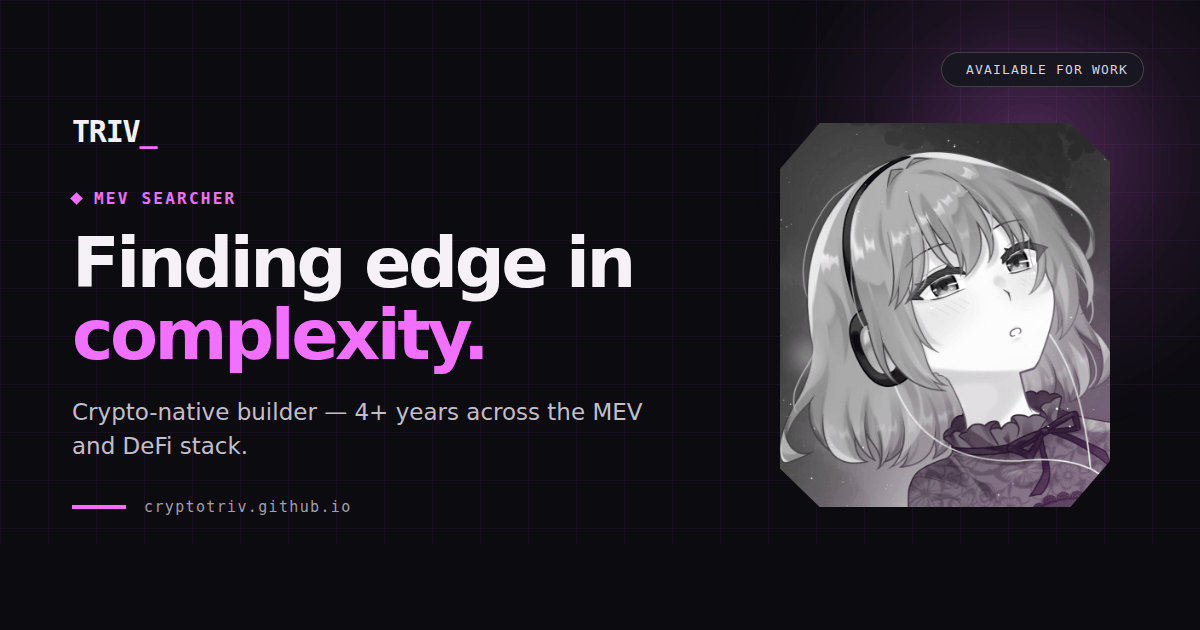
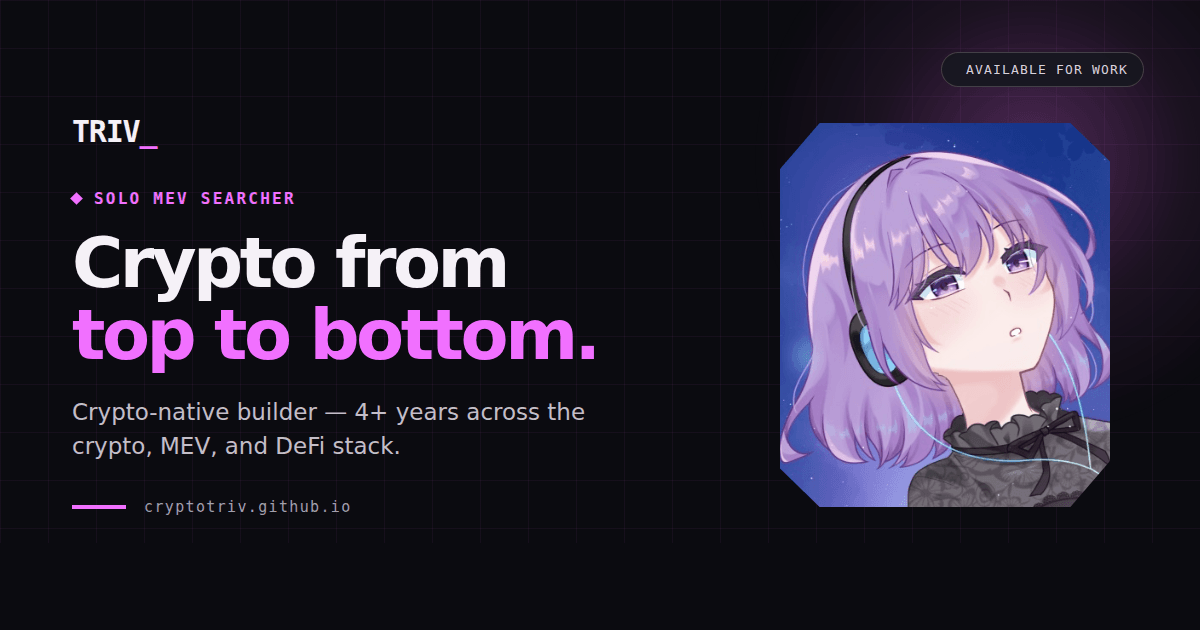
feat: refresh portfolio copy and expand selected work
- Hero: "Solo MEV searcher" eyebrow, "Crypto from top to bottom." headline,
  updated intro, full-colour portrait
- About: new heading and background copy, GitHub and YouTube links
- Selected work: real MEV dashboard screenshot, new YouTube and
  Messages On Ethereum cards, optimised via astro:assets
- Ticker: data-driven groups wide enough that the loop seam never shows
- Social card and JSON-LD updated to match

diff --git a/src/styles/global.css b/src/styles/global.css
@@ -6,13 +6,14 @@
 .skip-link { position:fixed; z-index:20; top:-4rem; left:1rem; padding:.7rem 1rem; background:var(--hot); color:var(--ink); font-weight:800; transition:top .15s; } .skip-link:focus { top:1rem; }
 .site-header { height:88px; display:flex; align-items:center; justify-content:space-between; border-bottom:1px solid var(--line); } .wordmark { font-family:var(--mono); letter-spacing:-.1em; font-size:1.38rem; font-weight:900; } .wordmark span { color:var(--hot); } .site-header nav { display:flex; gap:clamp(1rem,3vw,2.25rem); font-size:.82rem; color:var(--muted); } .site-header nav a,.site-footer a { transition:color .2s ease; } .site-header nav a:hover,.site-footer a:hover { color:var(--hot); } .header-availability { display:flex; align-items:center; gap:.5rem; border:1px solid var(--line); padding:.45rem .7rem; border-radius:999px; color:#d8d3dd; font-family:var(--mono); font-size:.66rem; letter-spacing:.06em; text-transform:uppercase; } .header-availability i,.signal-pulse i,.code-status i { width:.45rem; height:.45rem; display:inline-block; border-radius:50%; background:var(--hot); box-shadow:0 0 12px var(--hot); }
 .hero { min-height:min(760px,calc(100vh - 88px)); display:grid; grid-template-columns:1.05fr .95fr; align-items:center; gap:3rem; padding-block:5.5rem; overflow:hidden; } .eyebrow { margin:0 0 1.35rem; color:var(--hot); font-family:var(--mono); font-size:.68rem; font-weight:700; letter-spacing:.12em; text-transform:uppercase; } .eyebrow span { display:inline-block; width:.48rem; height:.48rem; margin-right:.6rem; background:var(--hot); transform:rotate(45deg); } h1,h2,h3,p { margin-top:0; } h1,h2 { letter-spacing:-.07em; line-height:.93; font-weight:750; text-wrap:balance; } h1 { max-width:720px; margin-bottom:2rem; font-size:clamp(3.4rem,6.5vw,5rem); } h1 em,h2 em { color:var(--hot); font-style:normal; } .hero-intro { max-width:530px; color:#c3bdc8; font-size:clamp(1rem,1.35vw,1.15rem); line-height:1.65; } .hero-actions { display:flex; align-items:center; flex-wrap:wrap; gap:1.7rem; margin-top:2.5rem; } .button { display:inline-flex; align-items:center; gap:2rem; padding:.9rem 1.1rem 1rem 1.25rem; font-size:.8rem; font-weight:800; letter-spacing:.02em; transition:transform .2s,background .2s; } .button:hover { transform:translateY(-3px); } .button-primary { background:var(--hot); color:var(--ink); } .button-primary span { font-size:1.2rem; line-height:.8; } .text-link { display:inline-flex; gap:.55rem; align-items:center; border-bottom:1px solid rgba(241,112,255,.5); padding-bottom:.22rem; color:var(--paper); font-size:.8rem; font-weight:700; transition:color .2s,border-color .2s; } .text-link:hover { border-color:var(--hot); color:var(--hot); } .text-link span { color:var(--hot); font-size:1rem; line-height:.8; }
-.hero-visual { position:relative; min-height:480px; display:grid; place-items:center; isolation:isolate; } .hero-visual::before { content:""; position:absolute; z-index:-2; width:min(30vw,420px); aspect-ratio:1; border-radius:50%; background:radial-gradient(circle,rgba(241,112,255,.34) 0%,rgba(241,112,255,.09) 38%,transparent 70%); filter:blur(10px); } .portrait-frame { position:relative; width:min(29vw,360px); min-width:275px; aspect-ratio:.86; overflow:hidden; clip-path:polygon(12% 0,88% 0,100% 10%,100% 88%,88% 100%,12% 100%,0 90%,0 12%); background:var(--surface); box-shadow:16px 16px 0 rgba(241,112,255,.16); } .portrait-frame::after { content:""; position:absolute; inset:0; background:linear-gradient(140deg,transparent 48%,rgba(241,112,255,.32)),linear-gradient(0deg,rgba(11,11,16,.3),transparent 40%); mix-blend-mode:screen; } .portrait-frame img { display:block; height:100%; width:100%; object-fit:cover; object-position:center 32%; filter:grayscale(100%) contrast(1.12); } .portrait-glow { position:absolute; inset:0; background:radial-gradient(circle at 66% 28%,rgba(241,112,255,.75),transparent 7%); mix-blend-mode:color; } .visual-orbit { position:absolute; z-index:-1; border:1px solid rgba(241,112,255,.34); border-radius:50%; } .orbit-one { width:115%; aspect-ratio:1; transform:rotate(-28deg) scaleY(.48); } .orbit-two { width:150%; aspect-ratio:1; border-color:rgba(255,255,255,.1); transform:rotate(35deg) scaleY(.25); } .signal-card { position:absolute; right:0; bottom:7%; min-width:190px; padding:.9rem 1rem; background:rgba(23,23,32,.9); border:1px solid rgba(255,255,255,.18); backdrop-filter:blur(12px); box-shadow:0 12px 40px rgba(0,0,0,.25); } .signal-label { display:block; color:var(--hot); font-family:var(--mono); font-size:.56rem; letter-spacing:.12em; } .signal-card strong { display:block; margin:.45rem 0 .7rem; font-size:.9rem; line-height:1.25; } .signal-pulse { display:flex; align-items:center; gap:.35rem; color:var(--muted); font-family:var(--mono); font-size:.55rem; letter-spacing:.09em; } .coordinate { position:absolute; color:rgba(245,241,247,.7); font-family:var(--mono); font-size:.55rem; letter-spacing:.1em; } .coordinate-top { top:7%; left:3%; writing-mode:vertical-rl; } .coordinate-bottom { right:13%; bottom:-3%; }
-.ticker { overflow:hidden; padding:1rem 0; border-block:1px solid var(--line); color:var(--hot); font-family:var(--mono); font-size:.72rem; font-weight:800; letter-spacing:.1em; white-space:nowrap; } .ticker div { display:flex; width:max-content; align-items:center; gap:2.2rem; animation:ticker 26s linear infinite; } .ticker b { font-size:1rem; font-weight:400; } @keyframes ticker { to { transform:translateX(-50%); } }
-.section { padding-block:clamp(5rem,11vw,9.5rem); } .about { display:grid; grid-template-columns:80px 1.15fr .85fr; gap:clamp(1.5rem,4vw,5rem); } .section-marker { display:flex; flex-direction:column; align-items:flex-start; gap:.8rem; color:var(--hot); font-family:var(--mono); font-size:.68rem; } .section-marker i { height:64px; width:1px; background:var(--hot); } .section-heading h2,.work-heading h2,.skills-intro h2 { margin-bottom:0; font-size:clamp(2.6rem,4.6vw,4rem); } .about-copy { max-width:520px; padding-top:.4rem; color:var(--muted); font-size:1rem; line-height:1.8; } .about-copy .lead { color:var(--paper); font-size:1.3rem; line-height:1.45; } .about-copy .text-link { margin-top:.8rem; }
-.work { background:var(--ink-soft); border-block:1px solid var(--line); } .work-heading { display:grid; grid-template-columns:80px 1fr .72fr; align-items:end; gap:clamp(1.5rem,5vw,6rem); margin-bottom:3rem; } .work-heading > p { margin:0 0 .2rem; color:var(--muted); line-height:1.65; } .project-grid { display:grid; grid-template-columns:1fr 1fr; gap:1.1rem; } .project-card { min-height:590px; padding:1.1rem; border:1px solid var(--line); background:#101018; transition:transform .25s ease,border-color .25s ease; } .project-card:hover { border-color:rgba(241,112,255,.7); transform:translateY(-5px); } .project-visual { height:305px; margin-bottom:1.25rem; overflow:hidden; } .dashboard-visual { position:relative; display:flex; flex-direction:column; padding:1.1rem; background:linear-gradient(135deg,#15131d,#0d101b); border:1px solid rgba(241,112,255,.18); } .dashboard-visual::before { content:""; position:absolute; inset:0; opacity:.32; background-image:linear-gradient(rgba(241,112,255,.11) 1px,transparent 1px),linear-gradient(90deg,rgba(241,112,255,.11) 1px,transparent 1px); background-size:32px 32px; } .dashboard-topline,.dashboard-metric,.dashboard-data,.dashboard-chart { position:relative; z-index:1; } .dashboard-topline { display:flex; align-items:center; gap:.32rem; } .dashboard-topline span { width:.4rem; height:.4rem; background:#d9d2dc; border-radius:50%; opacity:.6; } .dashboard-topline b { margin-left:auto; color:var(--hot); font-family:var(--mono); font-size:.53rem; letter-spacing:.1em; } .dashboard-metric { margin-top:2.8rem; } .dashboard-metric small { display:block; color:#aaa1b0; font-family:var(--mono); font-size:.55rem; letter-spacing:.1em; } .dashboard-metric strong { display:block; font-family:var(--mono); font-size:clamp(2rem,4vw,3rem); letter-spacing:-.08em; } .dashboard-metric strong em { color:var(--hot); font-size:.75rem; font-style:normal; letter-spacing:0; } .dashboard-metric > span { color:#7effb5; font-family:var(--mono); font-size:.61rem; } .dashboard-chart { display:flex; flex:1; align-items:end; gap:5px; margin:1rem 0; padding-left:9%; } .dashboard-chart i { flex:1; background:linear-gradient(0deg,var(--hot),rgba(241,112,255,.12)); } .dashboard-chart i:nth-child(1) { height:17%; }.dashboard-chart i:nth-child(2) { height:24%; }.dashboard-chart i:nth-child(3) { height:20%; }.dashboard-chart i:nth-child(4) { height:35%; }.dashboard-chart i:nth-child(5) { height:31%; }.dashboard-chart i:nth-child(6) { height:48%; }.dashboard-chart i:nth-child(7) { height:45%; }.dashboard-chart i:nth-child(8) { height:59%; }.dashboard-chart i:nth-child(9) { height:56%; }.dashboard-chart i:nth-child(10) { height:72%; }.dashboard-chart i:nth-child(11) { height:68%; }.dashboard-chart i:nth-child(12) { height:90%; } .dashboard-data { display:flex; justify-content:space-between; padding-top:.7rem; border-top:1px solid rgba(255,255,255,.16); color:#918a99; font-family:var(--mono); font-size:.51rem; letter-spacing:.07em; } .dashboard-data b { display:block; color:var(--paper); font-size:.68rem; } .project-meta { display:flex; justify-content:space-between; gap:1rem; color:var(--hot); font-family:var(--mono); font-size:.59rem; letter-spacing:.09em; } .project-card h3 { margin:.7rem 0; font-size:clamp(1.45rem,2.5vw,2rem); letter-spacing:-.045em; } .project-card > p { max-width:500px; color:var(--muted); font-size:.92rem; line-height:1.65; } .tag-list { display:flex; gap:.4rem; margin:1.2rem 0 0; padding:0; list-style:none; } .tag-list li { padding:.35rem .54rem; border:1px solid rgba(255,255,255,.15); color:#c8c0ce; font-family:var(--mono); font-size:.6rem; }
-.code-visual { display:flex; flex-direction:column; padding:1.1rem; background:#0b0c11; border:1px solid rgba(255,255,255,.11); } .code-window-bar { display:flex; align-items:center; gap:.32rem; padding-bottom:.9rem; border-bottom:1px solid rgba(255,255,255,.1); } .code-window-bar span { width:.4rem; height:.4rem; border-radius:50%; background:#44434d; }.code-window-bar span:first-child { background:var(--hot); }.code-window-bar b { margin-left:auto; color:#948e9a; font-family:var(--mono); font-size:.58rem; font-weight:400; } .code-visual pre { margin:auto 0; color:#bbb1c2; font-family:var(--mono); font-size:clamp(.75rem,1.45vw,.96rem); line-height:1.75; }.code-visual code { font-family:inherit; }.code-visual mark { color:var(--hot); background:transparent; }.code-visual strong { color:#f2eef4; font-weight:500; }.code-visual em { color:#92dba7; font-style:normal; } .code-status { display:flex; justify-content:space-between; color:#948e9a; font-family:var(--mono); font-size:.53rem; letter-spacing:.09em; text-transform:uppercase; }.code-status span { display:flex; align-items:center; gap:.3rem; }.code-status i { background:#d9a53a; box-shadow:0 0 10px #d9a53a; }.code-status b { color:var(--hot); } .project-links { display:flex; flex-wrap:wrap; gap:1.1rem; margin-top:1.2rem; }.project-links .subtle { color:#c4bdc7; border-color:rgba(255,255,255,.2); }
+.hero-visual { position:relative; min-height:480px; display:grid; place-items:center; isolation:isolate; } .hero-visual::before { content:""; position:absolute; z-index:-2; width:min(30vw,420px); aspect-ratio:1; border-radius:50%; background:radial-gradient(circle,rgba(241,112,255,.34) 0%,rgba(241,112,255,.09) 38%,transparent 70%); filter:blur(10px); } .portrait-frame { position:relative; width:min(29vw,360px); min-width:275px; aspect-ratio:.86; overflow:hidden; clip-path:polygon(12% 0,88% 0,100% 10%,100% 88%,88% 100%,12% 100%,0 90%,0 12%); background:var(--surface); box-shadow:16px 16px 0 rgba(241,112,255,.16); } .portrait-frame::after { content:""; position:absolute; inset:0; background:linear-gradient(140deg,transparent 48%,rgba(241,112,255,.16)),linear-gradient(0deg,rgba(11,11,16,.3),transparent 40%); mix-blend-mode:screen; } .portrait-frame img { display:block; height:100%; width:100%; object-fit:cover; object-position:center 32%; filter:contrast(1.05); } .visual-orbit { position:absolute; z-index:-1; border:1px solid rgba(241,112,255,.34); border-radius:50%; } .orbit-one { width:115%; aspect-ratio:1; transform:rotate(-28deg) scaleY(.48); } .orbit-two { width:150%; aspect-ratio:1; border-color:rgba(255,255,255,.1); transform:rotate(35deg) scaleY(.25); } .signal-card { position:absolute; right:0; bottom:7%; min-width:190px; padding:.9rem 1rem; background:rgba(23,23,32,.9); border:1px solid rgba(255,255,255,.18); backdrop-filter:blur(12px); box-shadow:0 12px 40px rgba(0,0,0,.25); } .signal-label { display:block; color:var(--hot); font-family:var(--mono); font-size:.56rem; letter-spacing:.12em; } .signal-card strong { display:block; margin:.45rem 0 .7rem; font-size:.9rem; line-height:1.25; } .signal-pulse { display:flex; align-items:center; gap:.35rem; color:var(--muted); font-family:var(--mono); font-size:.55rem; letter-spacing:.09em; } .coordinate { position:absolute; color:rgba(245,241,247,.7); font-family:var(--mono); font-size:.55rem; letter-spacing:.1em; } .coordinate-top { top:7%; left:3%; writing-mode:vertical-rl; } .coordinate-bottom { right:13%; bottom:-3%; }
+.ticker { overflow:hidden; padding:1rem 0; border-block:1px solid var(--line); color:var(--hot); font-family:var(--mono); font-size:.72rem; font-weight:800; letter-spacing:.1em; white-space:nowrap; } .ticker > div { display:flex; width:max-content; animation:ticker 78s linear infinite; } .ticker > div > div { display:flex; flex-shrink:0; min-width:100vw; align-items:center; gap:2.2rem; padding-right:2.2rem; } .ticker b { font-size:1rem; font-weight:400; } @keyframes ticker { to { transform:translateX(-50%); } }
+.section { padding-block:clamp(5rem,11vw,9.5rem); } .about { display:grid; grid-template-columns:80px 1.15fr .85fr; gap:clamp(1.5rem,4vw,5rem); } .section-marker { display:flex; flex-direction:column; align-items:flex-start; gap:.8rem; color:var(--hot); font-family:var(--mono); font-size:.68rem; } .section-marker i { height:64px; width:1px; background:var(--hot); } .section-heading h2,.skills-intro h2 { margin-bottom:0; font-size:clamp(2.6rem,4.6vw,4rem); } .section-heading #about-title { font-size:clamp(2.2rem,3.4vw,3rem); } .about-copy { max-width:520px; padding-top:.4rem; color:var(--muted); font-size:1rem; line-height:1.8; }
+.work { background:var(--ink-soft); border-block:1px solid var(--line); } .work-heading { display:grid; grid-template-columns:80px 1fr; align-items:center; gap:clamp(1.5rem,5vw,6rem); margin-bottom:2.5rem; } .work-heading .section-marker { grid-row:auto; flex-direction:row; align-items:center; } .work-heading .section-marker i { width:48px; height:1px; } .work-heading .eyebrow { margin:0; line-height:1.5; text-wrap:wrap; } .project-grid { display:grid; grid-template-columns:1fr 1fr; gap:1.1rem; } .project-card { min-height:590px; padding:1.1rem; border:1px solid var(--line); background:#101018; transition:transform .25s ease,border-color .25s ease; } .project-card:hover { border-color:rgba(241,112,255,.7); transform:translateY(-5px); } .project-visual { height:305px; margin-bottom:1.25rem; overflow:hidden; } .project-shot { background:#0b0c11; border:1px solid rgba(255,255,255,.11); } .project-shot img { display:block; width:100%; height:100%; object-fit:cover; } .shot-dashboard { object-position:left top; } .project-meta { display:flex; justify-content:space-between; gap:1rem; color:var(--hot); font-family:var(--mono); font-size:.59rem; letter-spacing:.09em; } .project-card h3 { margin:.7rem 0; font-size:clamp(1.45rem,2.5vw,2rem); letter-spacing:-.045em; } .project-card > p { max-width:500px; color:var(--muted); font-size:.92rem; line-height:1.65; } .tag-list { display:flex; gap:.4rem; margin:1.2rem 0 0; padding:0; list-style:none; } .tag-list li { padding:.35rem .54rem; border:1px solid rgba(255,255,255,.15); color:#c8c0ce; font-family:var(--mono); font-size:.6rem; }
+.code-visual { display:flex; flex-direction:column; padding:1.1rem; background:#0b0c11; border:1px solid rgba(255,255,255,.11); } .code-window-bar { display:flex; align-items:center; gap:.32rem; padding-bottom:.9rem; border-bottom:1px solid rgba(255,255,255,.1); } .code-window-bar span { width:.4rem; height:.4rem; border-radius:50%; background:#44434d; }.code-window-bar span:first-child { background:var(--hot); }.code-window-bar b { margin-left:auto; color:#948e9a; font-family:var(--mono); font-size:.58rem; font-weight:400; } .code-visual pre { margin:auto 0; color:#bbb1c2; font-family:var(--mono); font-size:clamp(.75rem,1.45vw,.96rem); line-height:1.75; }.code-visual code { font-family:inherit; }.code-visual mark { color:var(--hot); background:transparent; }.code-visual strong { color:#f2eef4; font-weight:500; }.code-visual em { color:#92dba7; font-style:normal; } .code-status { display:flex; justify-content:space-between; color:#948e9a; font-family:var(--mono); font-size:.53rem; letter-spacing:.09em; text-transform:uppercase; }.code-status span { display:flex; align-items:center; gap:.3rem; }.code-status i { background:#d9a53a; box-shadow:0 0 10px #d9a53a; }.code-status b { color:var(--hot); } .link-row { display:flex; flex-wrap:wrap; gap:1.1rem; margin-top:1.2rem; }.link-row .subtle { color:#c4bdc7; border-color:rgba(255,255,255,.2); }
+.chat-visual { display:flex; flex-direction:column; background:#0b0c11; border:1px solid rgba(255,255,255,.11); } .chat-header { display:flex; align-items:center; gap:.7rem; padding:.8rem 1.1rem; background:#12121a; border-bottom:1px solid rgba(255,255,255,.1); }.chat-avatar { display:grid; flex-shrink:0; place-items:center; width:2.1rem; height:2.1rem; border-radius:50%; background:var(--hot); color:var(--ink); font-size:.95rem; font-weight:800; box-shadow:0 0 16px rgba(241,112,255,.35); }.chat-header strong { display:block; font-size:.86rem; font-weight:650; letter-spacing:-.01em; }.chat-header small { display:block; color:#948e9a; font-family:var(--mono); font-size:.53rem; letter-spacing:.09em; } .chat-feed { display:flex; flex:1; min-height:0; flex-direction:column; align-items:flex-start; justify-content:flex-end; gap:.55rem; padding:.9rem 1.1rem; overflow:hidden; background-image:radial-gradient(rgba(241,112,255,.08) 1px,transparent 1px); background-size:18px 18px; }.chat-bubble { max-width:80%; padding:.5rem .8rem .45rem; border:1px solid rgba(255,255,255,.08); border-radius:14px 14px 14px 4px; background:#1b1b26; }.chat-bubble:last-child { border-color:rgba(241,112,255,.4); }.chat-bubble span { display:block; color:#f2eef4; font-size:.85rem; line-height:1.4; }.chat-bubble small { display:block; margin-top:.2rem; color:#948e9a; font-family:var(--mono); font-size:.5rem; letter-spacing:.08em; text-transform:uppercase; }
 .skills { display:grid; grid-template-columns:80px 1fr 1fr; gap:clamp(1.5rem,5vw,6rem); } .skills-list { margin:0; padding:0; list-style:none; }.skills-list li { display:flex; align-items:center; gap:1rem; border-bottom:1px solid var(--line); padding:1.05rem 0; }.skills-list li:first-child { border-top:1px solid var(--line); }.skills-list span { color:var(--hot); font-family:var(--mono); font-size:.63rem; }.skills-list strong { font-size:clamp(1.3rem,2.5vw,2rem); font-weight:550; letter-spacing:-.04em; }.skills-list i { margin-left:auto; width:1.4rem; height:1px; background:var(--hot); }
 .contact { position:relative; overflow:hidden; min-height:560px; padding:clamp(4.5rem,9vw,8rem) clamp(2rem,8vw,8rem); margin-bottom:0; background:var(--hot); color:var(--ink); }.contact::after { content:""; position:absolute; width:400px; aspect-ratio:1; right:-115px; bottom:-150px; border:1px solid rgba(11,11,16,.32); border-radius:50%; box-shadow:0 0 0 72px rgba(11,11,16,.1),0 0 0 145px rgba(11,11,16,.06); }.contact > *:not(.contact-grid) { position:relative; z-index:1; }.contact .eyebrow { color:var(--ink); }.contact .eyebrow span { background:var(--ink); }.contact h2 { max-width:800px; margin-bottom:1.5rem; font-size:clamp(3rem,6.2vw,5.5rem); }.contact h2 em { color:var(--ink); text-decoration:underline; text-decoration-thickness:.055em; text-underline-offset:.07em; }.contact > p:not(.eyebrow) { max-width:540px; margin-bottom:2rem; font-size:1.1rem; line-height:1.6; }.email-link { display:inline-flex; align-items:center; gap:1rem; border-bottom:2px solid var(--ink); padding-bottom:.3rem; font-size:clamp(1.15rem,2.25vw,1.8rem); font-weight:720; letter-spacing:-.045em; transition:opacity .2s; }.email-link:hover { opacity:.64; }.email-link span { font-size:1.2em; }.contact-socials { display:flex; flex-wrap:wrap; gap:1.3rem; margin-top:2.5rem; font-family:var(--mono); font-size:.66rem; font-weight:700; letter-spacing:.07em; text-transform:uppercase; }.contact-socials a { border-bottom:1px solid rgba(11,11,16,.45); padding-bottom:.25rem; }.contact-socials a:hover { border-color:var(--ink); }.contact-grid { position:absolute; inset:0; opacity:.26; background-image:linear-gradient(rgba(11,11,16,.16) 1px,transparent 1px),linear-gradient(90deg,rgba(11,11,16,.16) 1px,transparent 1px); background-size:36px 36px; mask-image:linear-gradient(90deg,black,transparent); } .site-footer { display:flex; align-items:center; justify-content:space-between; gap:2rem; min-height:92px; color:var(--muted); font-family:var(--mono); font-size:.62rem; letter-spacing:.05em; }.site-footer p { margin:0; }.site-footer .wordmark { color:var(--paper); font-size:1.2rem; }
 .notfound { min-height:min(720px,calc(100vh - 180px)); display:flex; flex-direction:column; align-items:center; justify-content:center; padding-block:5.5rem; text-align:center; } .notfound h1 { font-size:clamp(3.2rem,7vw,6rem); } .notfound-intro { max-width:480px; color:#c3bdc8; font-size:1rem; line-height:1.65; } .notfound-actions { display:flex; align-items:center; flex-wrap:wrap; justify-content:center; gap:1.7rem; margin-top:2.5rem; }
-@media (max-width:760px) { .shell { width:min(100% - 32px,1180px); }.site-header { height:70px; }.site-header nav { display:none; }.hero { min-height:auto; grid-template-columns:1fr; gap:2rem; padding-block:4.25rem 3.5rem; }.hero-visual { min-height:390px; grid-row:1; }.hero-copy { grid-row:2; }.portrait-frame { width:265px; min-width:0; }.signal-card { right:0; bottom:1rem; min-width:174px; }.coordinate-top { left:0; }.coordinate-bottom { right:3%; }.about,.skills { grid-template-columns:45px 1fr; gap:1.1rem; }.about-copy,.skills-list { grid-column:2; }.section-marker { grid-row:span 2; }.section-marker i { height:42px; }.work-heading { grid-template-columns:45px 1fr; gap:1.1rem; }.work-heading > p { grid-column:2; margin-top:.5rem; }.project-grid { grid-template-columns:1fr; }.project-card { min-height:0; }.project-visual { height:270px; }.site-footer { align-items:flex-start; flex-direction:column; justify-content:center; gap:.7rem; padding-block:1rem; }.contact { width:100%; padding-inline:1rem; }.contact::after { width:260px; } }
-@media (max-width:420px) { h1 { font-size:3rem; }.header-availability { font-size:.57rem; }.dashboard-data { gap:.5rem; }.dashboard-data span { min-width:0; }.project-meta { font-size:.5rem; }.project-links { gap:.8rem; } } @media (prefers-reduced-motion:reduce) { *,*::before,*::after { scroll-behavior:auto !important; animation-duration:.01ms !important; animation-iteration-count:1 !important; transition-duration:.01ms !important; } }
+@media (max-width:760px) { .shell { width:min(100% - 32px,1180px); }.site-header { height:70px; }.site-header nav { display:none; }.hero { min-height:auto; grid-template-columns:1fr; gap:2rem; padding-block:4.25rem 3.5rem; }.hero-visual { min-height:390px; grid-row:1; }.hero-copy { grid-row:2; }.portrait-frame { width:265px; min-width:0; }.signal-card { right:0; bottom:1rem; min-width:174px; }.coordinate-top { left:0; }.coordinate-bottom { right:3%; }.about,.skills { grid-template-columns:45px 1fr; gap:1.1rem; }.about-copy,.skills-list { grid-column:2; }.section-marker { grid-row:span 2; }.section-marker i { height:42px; }.work-heading { grid-template-columns:45px 1fr; gap:1.1rem; }.project-grid { grid-template-columns:1fr; }.project-card { min-height:0; }.project-visual { height:270px; }.site-footer { align-items:flex-start; flex-direction:column; justify-content:center; gap:.7rem; padding-block:1rem; }.contact { width:100%; padding-inline:1rem; }.contact::after { width:260px; } }
+@media (max-width:420px) { h1 { font-size:3rem; }.header-availability { font-size:.57rem; }.project-meta { font-size:.5rem; }.link-row { gap:.8rem; } } @media (prefers-reduced-motion:reduce) { *,*::before,*::after { scroll-behavior:auto !important; animation-duration:.01ms !important; animation-iteration-count:1 !important; transition-duration:.01ms !important; } }

diff --git a/scripts/og-card.html b/scripts/og-card.html
@@ -29,8 +29,8 @@ p{margin-top:24px;max-width:580px;color:#c3bdc8;font-size:23px;line-height:1.5}
 .frame{position:relative;width:330px;height:384px;overflow:hidden;background:#171720;
  clip-path:polygon(12% 0,88% 0,100% 10%,100% 88%,88% 100%,12% 100%,0 90%,0 12%);
  box-shadow:18px 18px 0 rgba(241,112,255,.16)}
-.frame img{width:100%;height:100%;object-fit:cover;object-position:center 32%;filter:grayscale(100%) contrast(1.12)}
-.frame::after{content:"";position:absolute;inset:0;background:linear-gradient(140deg,transparent 48%,rgba(241,112,255,.30));mix-blend-mode:screen}
+.frame img{width:100%;height:100%;object-fit:cover;object-position:center 32%;}
+.frame::after{content:"";position:absolute;inset:0;background:linear-gradient(140deg,transparent 48%,rgba(241,112,255,.15));mix-blend-mode:screen}
 .tag{position:absolute;right:56px;top:52px;z-index:3;display:flex;align-items:center;gap:9px;padding:9px 15px;border:1px solid rgba(255,255,255,.18);border-radius:999px;background:rgba(23,23,32,.92);font-family:"DejaVu Sans Mono",monospace;font-size:13px;letter-spacing:.09em;color:#d8d3dd}
  padding:10px 15px;border:1px solid rgba(255,255,255,.18);border-radius:999px;background:rgba(23,23,32,.92);
  font-family:"DejaVu Sans Mono",monospace;font-size:14px;letter-spacing:.09em;color:#d8d3dd}
@@ -38,9 +38,9 @@ p{margin-top:24px;max-width:580px;color:#c3bdc8;font-size:23px;line-height:1.5}
 </style></head><body>
 <div class="copy">
   <div class="mark">TRIV<i>_</i></div>
-  <div class="eyebrow"><b></b>MEV SEARCHER</div>
-  <h1>Finding edge in<br><em>complexity.</em></h1>
-  <p>Crypto-native builder &mdash; 4+ years across the MEV and DeFi stack.</p>
+  <div class="eyebrow"><b></b>SOLO MEV SEARCHER</div>
+  <h1>Crypto from<br><em>top to bottom.</em></h1>
+  <p>Crypto-native builder &mdash; 4+ years across the crypto, MEV, and DeFi stack.</p>
   <div class="rule"><s></s><span>cryptotriv.github.io</span></div>
 </div>
 <div class="side"><div class="frame"><img src="../public/images/triv-profile.png"></div></div>
